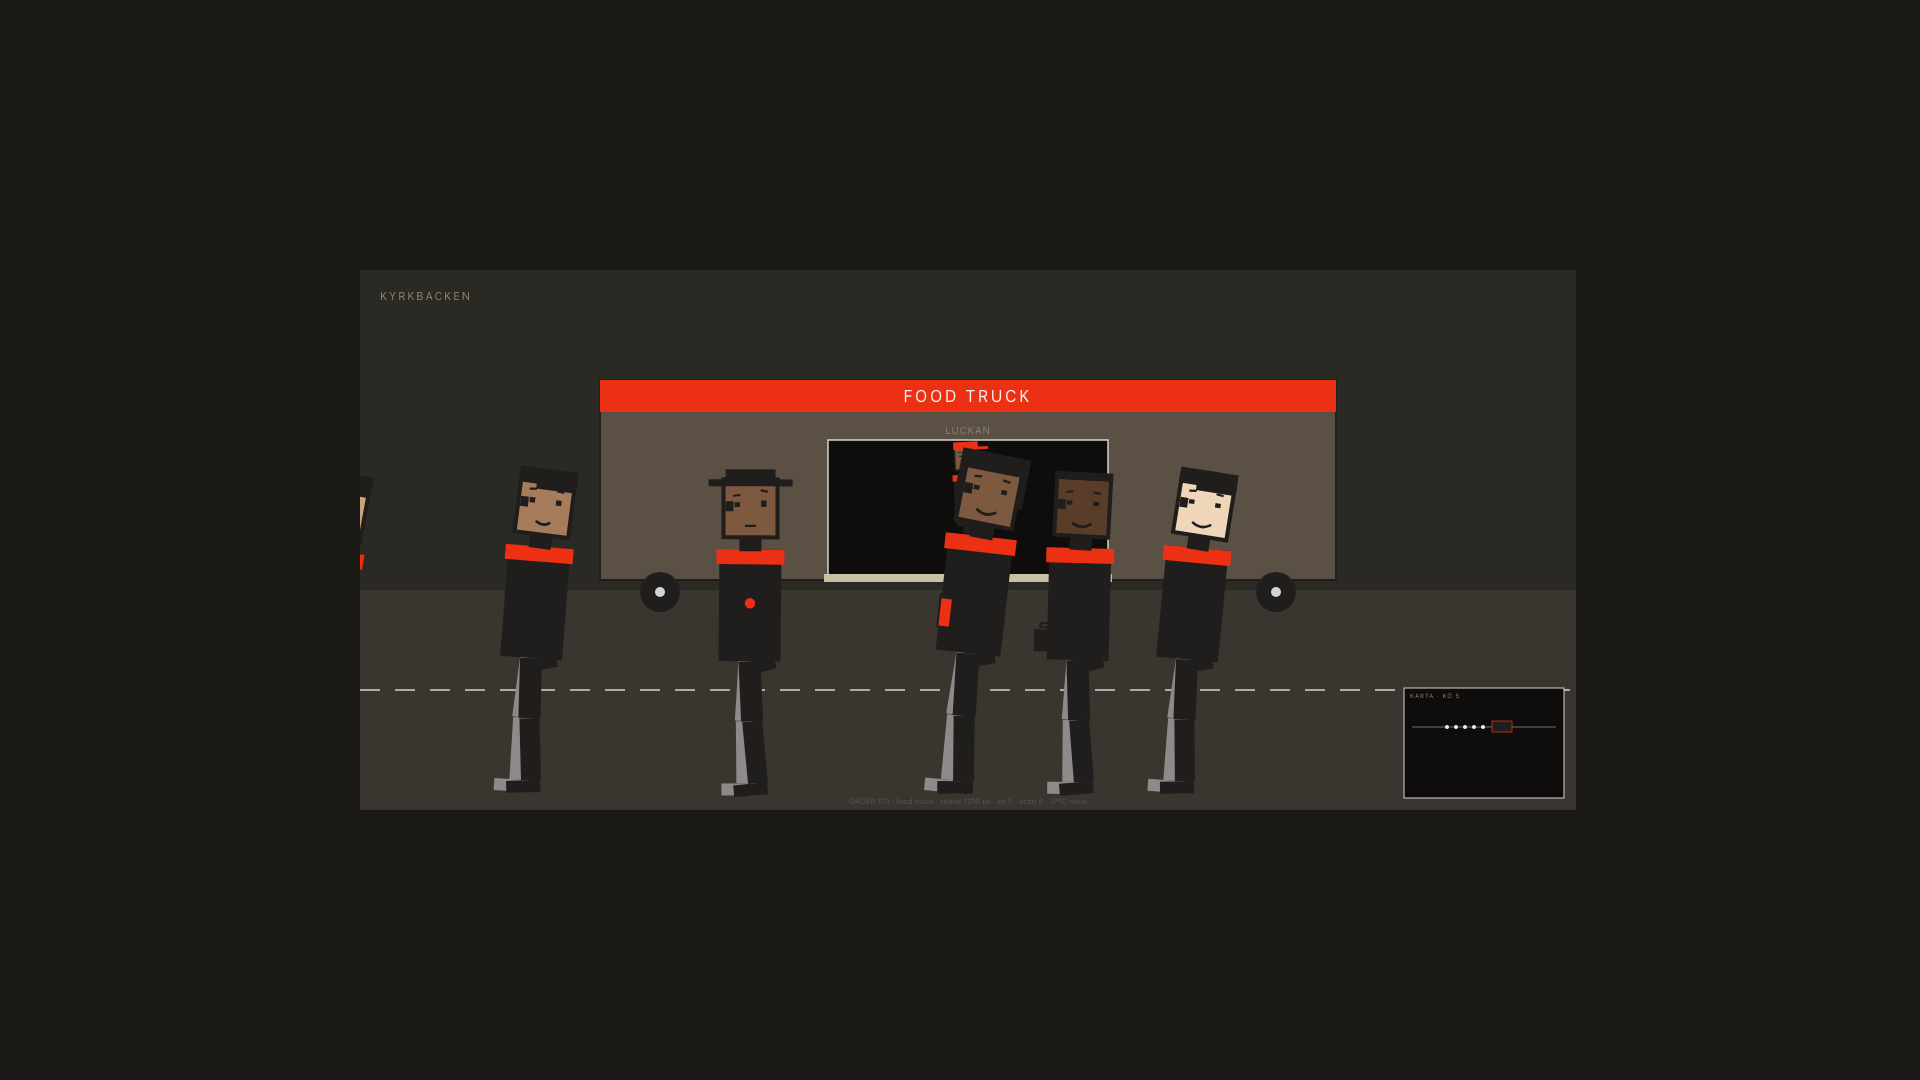
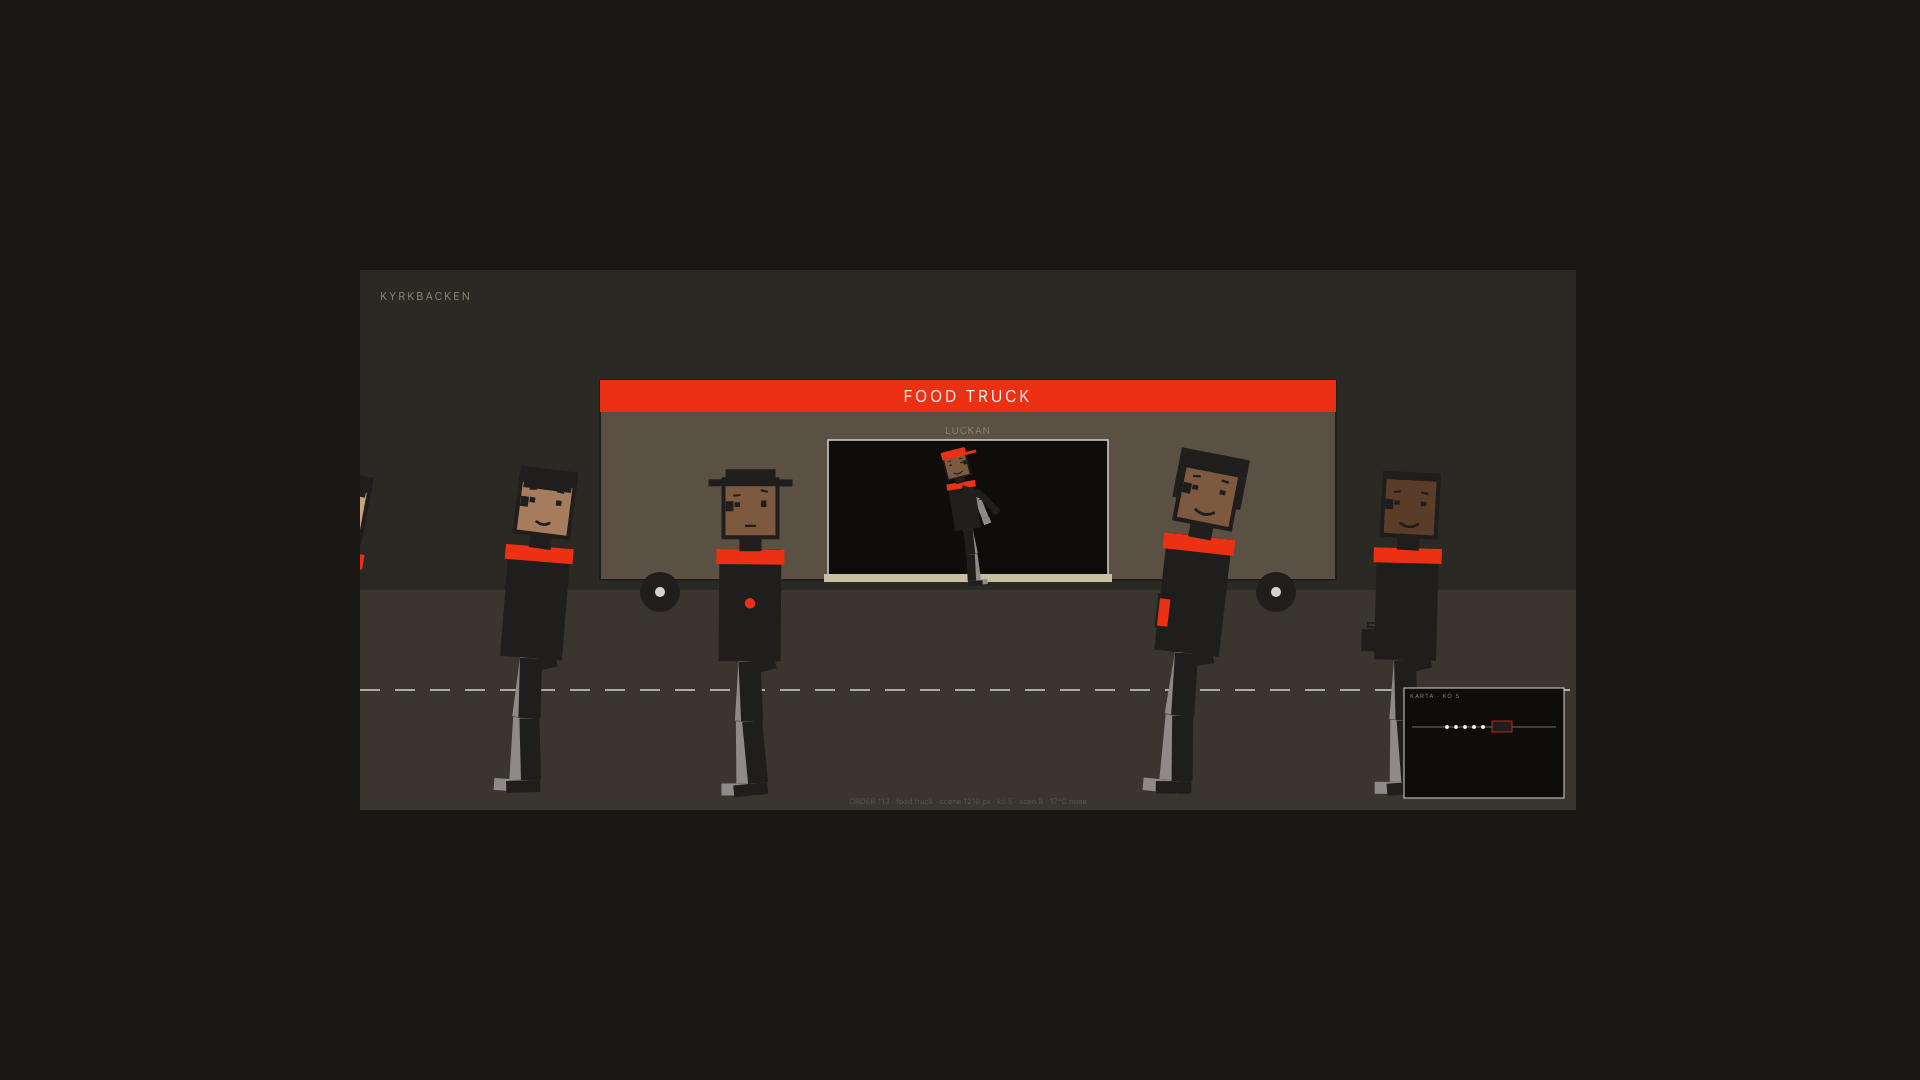
fix(foodtruck): ORDER 114 — queue utåt, servePose, symmetrisk workCap
Fyra VO-fynd 2026-08-17 (rev 6) mot faces.png:
  * Kön står mitt framför luckan i stället för på rad ute på gatan.
  * Figurerna överlappar varandra och sticker in i luckans öppning.
  * Bara den som beställer står vid luckan.
  * Svart fyrkant sticker ut till höger om huvudet på flera figurer,
    i öronhöjd — asymmetri i geometrin?
  * Serveringen syns inte. Personalen står stilla i luckan, gästen
    står framför, ingen överlämning. I en food truck ÄR överlämningen
    verksamheten. Finns någon serveringsgest i prototypen som kan
    användas? Mönster 06 servera hade dopp 0,12 m.

Fyra fixar:

A. FoodtruckScene.tsx — bara första ordering vid counter:
   * COUNTER_STACK_OFFSET (halva slot-spacing) borttagen — orsakade
     att flera ordering/paying-guests trängdes framför luckan med
     bara 218 units (109 CSS-px) mellan varandra.
   * ordering: första vid COUNTER_X, ytterligare som queue-extension
     (bakom slot 0, `x = QUEUE_FIRST_X - QUEUE_SLOT_SPACING *
     (waitingCount + orderingIdx - 1)`). Representerar "nästa i tur
     just stiger fram".
   * paying: höger om counter med full QUEUE_SLOT_SPACING mellan
     varje. Först vid COUNTER_X + spacing, andra vid +2×spacing.
     Representerar "picked up food, stepping aside".

B. Figure.tsx — workCap-brim symmetrisk:
   * Var tidigare `x=-29 width=40` (asymmetrisk, bara vänster).
     Vid facing-flip syntes brim:en som "svart fyrkant vid
     ear-height" på höger sida av head.
[…]

Changed region(s): [[0.4688, 0.3972, 0.6562, 0.7333], [0.6875, 0.4278, 0.75, 0.7333]]

diff --git a/frontend/src/strategic/ui/foodtruck/FoodtruckScene.tsx b/frontend/src/strategic/ui/foodtruck/FoodtruckScene.tsx
@@ -21,7 +21,7 @@ import { useEffect, useRef, useState } from 'react';
 import { useSimState } from '../../simulation/SimulationProvider';
 import type { WeatherConditions } from '../../types';
 import { Figure } from './Figure';
-import { idlePose, walkPose, variantForId, RIG_INK, RIG_LINE, RIG_GROUND, RIG_ACCENT } from './rig';
+import { idlePose, walkPose, servePose, variantForId, RIG_INK, RIG_LINE, RIG_GROUND, RIG_ACCENT } from './rig';
 import { RIG_PROTO_MAX_WIDTH_AT_SCALE_1 } from './rig';
 import type { Pose, FigureVariant } from './rig';
 import { assignArchetype, assignSkinTone, FOODTRUCK_ARCHETYPES, applyArchetypeMod } from './archetypes';
@@ -140,10 +140,11 @@ const STAFF_Y = HATCH_Y + Math.round(314 * STAFF_SCALE);  // = 340 + 267 = 607
 // TILLSTÅND, renderaren bestämmer VAR i scenen tillståndet visas.
 const COUNTER_X = HATCH_X + HATCH_W / 2;
 const COUNTER_Y = QUEUE_Y;
-// Counter-stack sprider figurer TILL HÖGER (bort från kön). Halva
-// slot-spacing räcker eftersom counter-figurer står stilla (idle-pose,
-// ingen arm-swing). Härledd, inte hårdkodad.
-const COUNTER_STACK_OFFSET = Math.round(QUEUE_SLOT_SPACING * 0.5);
+// **ORDER 114 rev 6** — counter-stack borttagen: rendering-logiken i
+// FoodtruckScene placerar nu bara EN ordering-guest vid counter, resten
+// hamnar i queue-position. Paying-guests staplas höger om counter med
+// full QUEUE_SLOT_SPACING mellan varje.
+//
 // Första kö-slotten härleds från COUNTER_X så att slot 0 är exakt
 // QUEUE_SLOT_SPACING vänster om counter-mitten. Utan denna härledning
 // (t.ex. tidigare `QUEUE_FIRST_X = WAGON_LEFT + WAGON_WIDTH * 0.30`)
@@ -367,15 +368,22 @@ export function FoodtruckScene({ widthPx, leftInset, rightInset }: FoodtruckScen
   let arrivingIdx = 0;
   let leavingIdx = 0;
 
-  // Sido-offset-hjälp för counter-stacken: 0, -1, +1, -2, +2, ... så
-  // första gästen står centrerad, resten pendlar ut åt sidorna.
-  // Counter-stack sprider figurer TILL HÖGER först. Väster sida (mot
-  // kön) undviks aktivt så counter-figurer inte överlappar kö-slot 0.
-  // Ordning: 0 (mitt), +1 höger, +2 höger, +3 höger, ... — pendlar
-  // aldrig åt vänster där kön står.
-  const counterOffset = (idx: number): number => {
-    return idx * COUNTER_STACK_OFFSET;
-  };
+  // ORDER 114 rev 6 — VO: "Bara den som beställer står vid luckan."
+  // Räknas separat från waiting-slots så counter-figurer aldrig
+  // kolliderar med kö-slot 0.
+  //
+  //   * Första ordering-guest: AT counter (COUNTER_X)
+  //   * Ytterligare ordering-guests: som queue-front (bakom slot 0
+  //     med QUEUE_SLOT_SPACING avstånd) — representerar "nästa i
+  //     tur, just stiger fram"
+  //   * Första paying-guest: höger om counter (COUNTER_X + spacing)
+  //   * Ytterligare paying: längre höger (fördelar mot leaving-region)
+  //
+  // Innan denna fix trängdes alla ordering + paying vid counter med
+  // halva slot-spacing (218 units) → visuellt kluster framför luckan.
+
+  // Räkna waiting-figurer först så vi vet var kö-back är.
+  const totalWaitingCount = sim.waitingIds.length;
 
   for (const g of sim.guests) {
     const ph = phaseFor(g.id);
@@ -415,18 +423,31 @@ export function FoodtruckScene({ widthPx, leftInset, rightInset }: FoodtruckScen
         break;
       }
       case 'ordering': {
-        x = COUNTER_X + counterOffset(orderingIdx++);
-        y = COUNTER_Y;
+        if (orderingIdx === 0) {
+          // Första ordering-guest: AT counter
+          x = COUNTER_X;
+          y = COUNTER_Y;
+        } else {
+          // Ytterligare ordering: bakom slot 0 i queue-position
+          // (representerar "nästa i tur"). Läggs efter alla waiting-
+          // figurer så överlapp med kö undviks.
+          x = QUEUE_FIRST_X - QUEUE_SLOT_SPACING * (totalWaitingCount + orderingIdx - 1);
+          y = QUEUE_Y;
+        }
+        orderingIdx++;
         basePose = idlePose(T + ph * 2);
-        facing = -1;   // vid counter, tittar in i luckan (höger)
+        facing = -1;   // vid counter/kö, tittar in i luckan (höger)
         break;
       }
       case 'paying': {
-        x = COUNTER_X + counterOffset(payingIdx++);
+        // Paying: höger om counter (picked up food, stepping aside).
+        // Första paying: COUNTER_X + spacing. Andra: + 2*spacing. Osv.
+        x = COUNTER_X + QUEUE_SLOT_SPACING * (payingIdx + 1);
         y = COUNTER_Y;
+        payingIdx++;
         // Något mer aktiv puls än ordering — signalerar transaktion.
         basePose = idlePose(T * 1.4 + ph * 2);
-        facing = -1;   // samma — vid counter, tittar in i luckan
+        facing = -1;   // fortsatt titta vänster mot luckan / kön
         break;
       }
       case 'arriving': {
@@ -609,21 +630,34 @@ export function FoodtruckScene({ widthPx, leftInset, rightInset }: FoodtruckScen
           </text>
         </g>
 
-        {/* Personalen — ett ansikte i luckan, idle-pose. Fast `nojd`-
-            uttryck: personal-vokabulär (deriveFaces.ts) rörs inte per
-            ORDER 114 §7-avgränsningen, men Figure:s face-prop tar
-            GUEST_FACES-formen direkt. */}
-        <Figure
-          pose={idlePose(T + 0.7)}
-          x={STAFF_X}
-          y={STAFF_Y}
-          scale={STAFF_SCALE}
-          variant="Cap"
-          id="staff-hatch"
-          face={GUEST_FACES.nojd}
-          faceKey="nojd"
-          skinTone={assignSkinTone('staff-hatch')}
-        />
+        {/* Personalen — ett ansikte i luckan. Fast `nojd`-uttryck:
+            personal-vokabulär (deriveFaces.ts) rörs inte per ORDER 114
+            §7-avgränsningen, men Figure:s face-prop tar GUEST_FACES-
+            formen direkt.
+            **ORDER 114 rev 6** — servePose när counter är upptagen:
+            VO 2026-08-17 "Serveringen syns inte. Personalen står
+            stilla i luckan, gästen står framför, ingen överlämning."
+            När någon gäst är i ordering/paying-tillstånd växlar staff
+            till reach-and-retract-cykeln (rig.ts:servePose) så
+            överlämningen syns som ARBETE. Vid tom counter faller
+            staff tillbaka på idle-andning. */}
+        {(() => {
+          const anyAtCounter = sim.guests.some((g) => g.state === 'ordering' || g.state === 'paying');
+          const staffPose = anyAtCounter ? servePose(T) : idlePose(T + 0.7);
+          return (
+            <Figure
+              pose={staffPose}
+              x={STAFF_X}
+              y={STAFF_Y}
+              scale={STAFF_SCALE}
+              variant="Cap"
+              id="staff-hatch"
+              face={GUEST_FACES.nojd}
+              faceKey="nojd"
+              skinTone={assignSkinTone('staff-hatch')}
+            />
+          );
+        })()}
 
         {/* Gäster — en figur per sim.guests-post som är i ett scen-
             relevant state (waiting/ordering/paying/arriving/leaving/

diff --git a/frontend/src/strategic/ui/foodtruck/rig.ts b/frontend/src/strategic/ui/foodtruck/rig.ts
@@ -98,6 +98,54 @@ export function idlePose(T: number): Pose {
   };
 }
 
+// ORDER 114 rev 6 — servePose(T) för STAFF vid counter.
+//
+// VO-fynd 2026-08-17: "Serveringen syns inte. Personalen står stilla
+// i luckan, gästen står framför, ingen överlämning. I en food truck
+// ÄR överlämningen verksamheten."
+//
+// VO refererar till "mönster 06 servera" med "dopp 0,12 m" i ett
+// rörelsebibliotek som INTE finns i prototypen (grep verifierat).
+// Följande servePose är författad från beskrivningen — cyklisk
+// reach-and-retract där staff-figuren lutar fram över counter,
+// sträcker ut nära-armen (räcker fram tallrik/påse), håller kort,
+// drar tillbaka. Perioden är ~3 sim-sek så tempo läses som "aktiv
+// men inte stressat". Motsvarar "mönster 06" beskrivningens dopp
+// 0,12 m ≈ 22 SVG-units (vid RIG_PROTO_UNITS_PER_METER = 180.6).
+//
+// Notering: prototype `SIT`-poser har liknande "armFar/armNear når
+// framåt"-kod (guest-reel.jsx:75-83). servePose bygger på samma idé
+// men står upp (ingen hipDrop-sit-offset) och är tänkt för personal
+// bakom counter — inte gäster.
+
+export function servePose(T: number): Pose {
+  // Cykelfas: 0..1 vid 3 sim-sek period.
+  const period = 3;
+  const phase = ((T % period) / period);
+  // Reach-envelope: går från 0 → 1 → 0 över cykeln.
+  // Max reach vid mitten (phase=0.5), stilla vid ändarna (0 och 1).
+  // Använder halva sinus-vågen: sin(π * phase).
+  const reach = Math.sin(Math.PI * phase);
+  // Dopp ("nedsjunkning") i höften när armen sträcker sig — 22 units
+  // motsvarar VO-referensens 0,12 m.
+  const DIP_UNITS = 22;
+  return {
+    ...IDLE,
+    lean: 4 + 6 * reach,        // lutar fram över counter
+    head: 2 + 4 * reach,         // huvud tilltar när räcker fram
+    hipDrop: DIP_UNITS * reach,  // sjunker i knäna vid reach
+    mouth: 0,
+    // Nära-armen (den vi ser tydligast i luckan) sträcker sig framåt.
+    // Positivt värde = svänger framåt. 90° = rakt fram horisontellt.
+    armNear: [80 * reach, -15 - 20 * reach],
+    // Bortre armen mindre synligt aktiv (håller tallrik / stödjer sig
+    // mot counter).
+    armFar: [30 + 20 * reach, -25 - 10 * reach],
+    legNear: IDLE.legNear,
+    legFar: IDLE.legFar
+  };
+}
+
 // walkPose(ph, amp) — gång-cykel. `ph` = fas i [0, 1] (en full cykel).
 // `amp` = amplitud för lem-svängar (0 = ingen rörelse, 1 = full gång).
 // Prototypen rad 46-59.

diff --git a/frontend/src/strategic/ui/foodtruck/Figure.tsx b/frontend/src/strategic/ui/foodtruck/Figure.tsx
@@ -213,11 +213,17 @@ function renderHeadTopping(topping: HeadTopping) {
       // Affärsgästen — kort hår som tunn linje
       return <rect x={-29} y={-76} width={58} height={8} fill={RIG_INK} />;
     case 'workCap':
-      // Efter skiftet — keps med skärm
+      // Efter skiftet — keps med skärm.
+      // **VO-fynd 2026-08-17 (rev 6):** brim var tidigare
+      // `x=-29 width=40` = ASYMMETRISK (bara vänster sida, extending
+      // x=-29 till x=+11). När figuren speglades via facing=-1
+      // hamnade brim:en på höger sida av head = "svart fyrkant vid
+      // ear-height". Nu symmetrisk: x=-24 width=48 → x=-24 till x=+24.
+      // Fungerar likadant för båda facing-riktningar.
       return (
         <g>
           <rect x={-29} y={-78} width={58} height={16} fill={RIG_INK} />
-          <rect x={-29} y={-64} width={40} height={7} fill={RIG_INK} />
+          <rect x={-24} y={-64} width={48} height={7} fill={RIG_INK} />
         </g>
       );
     case 'sunHat':
